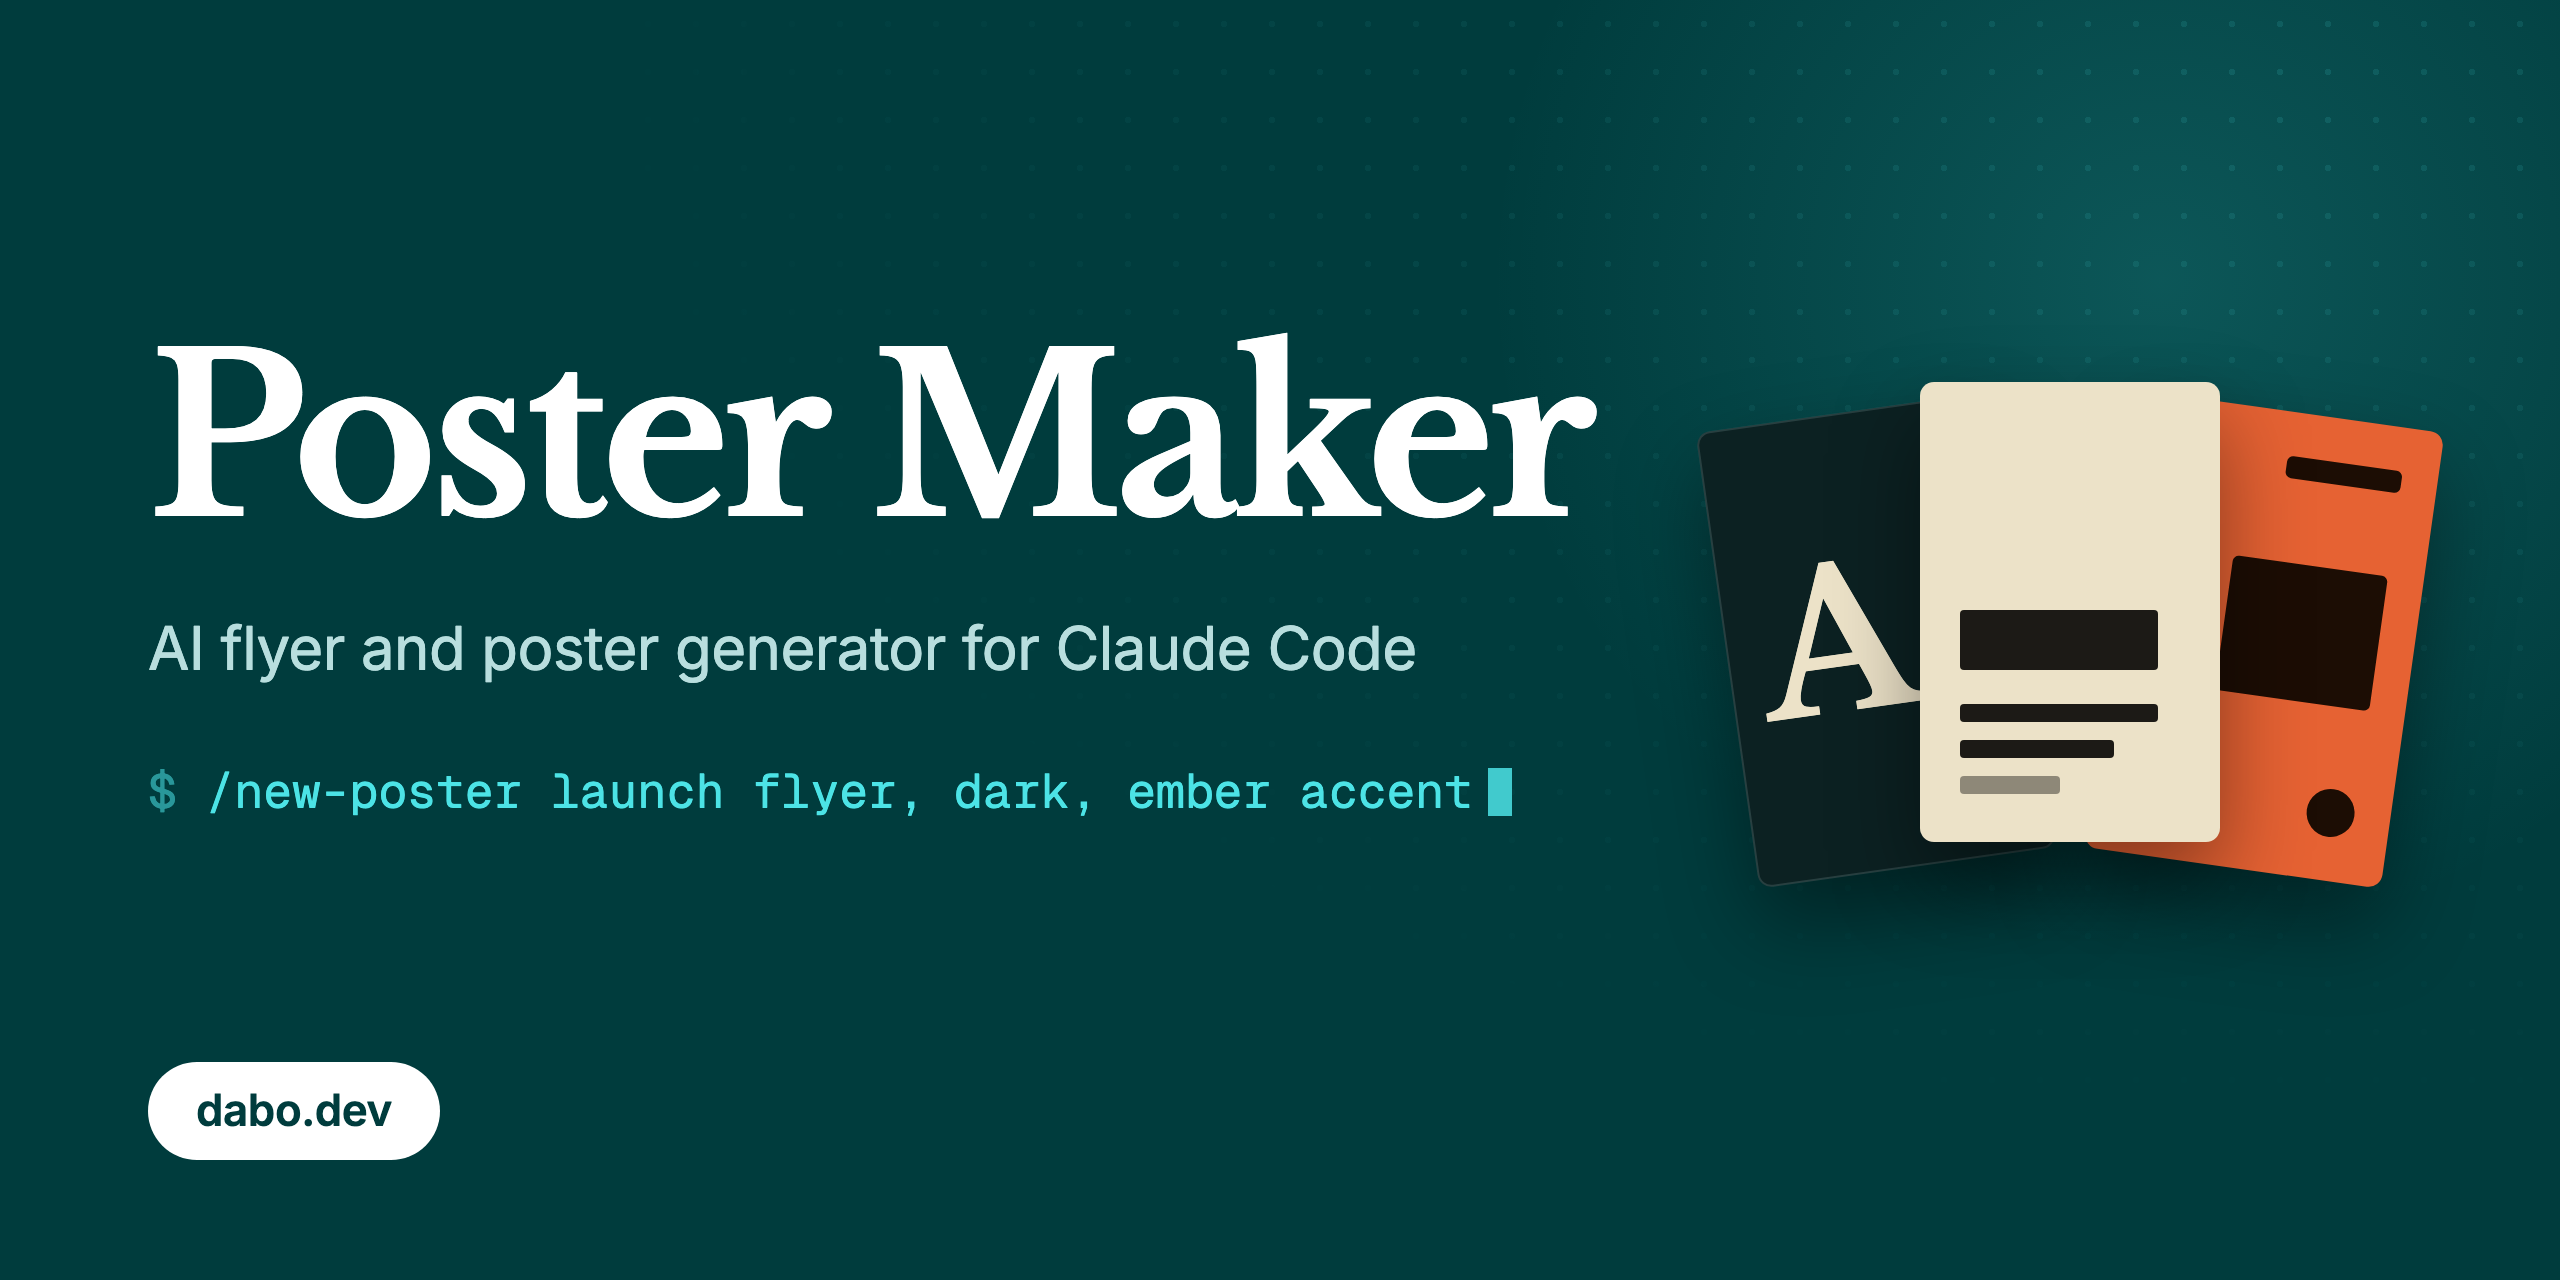
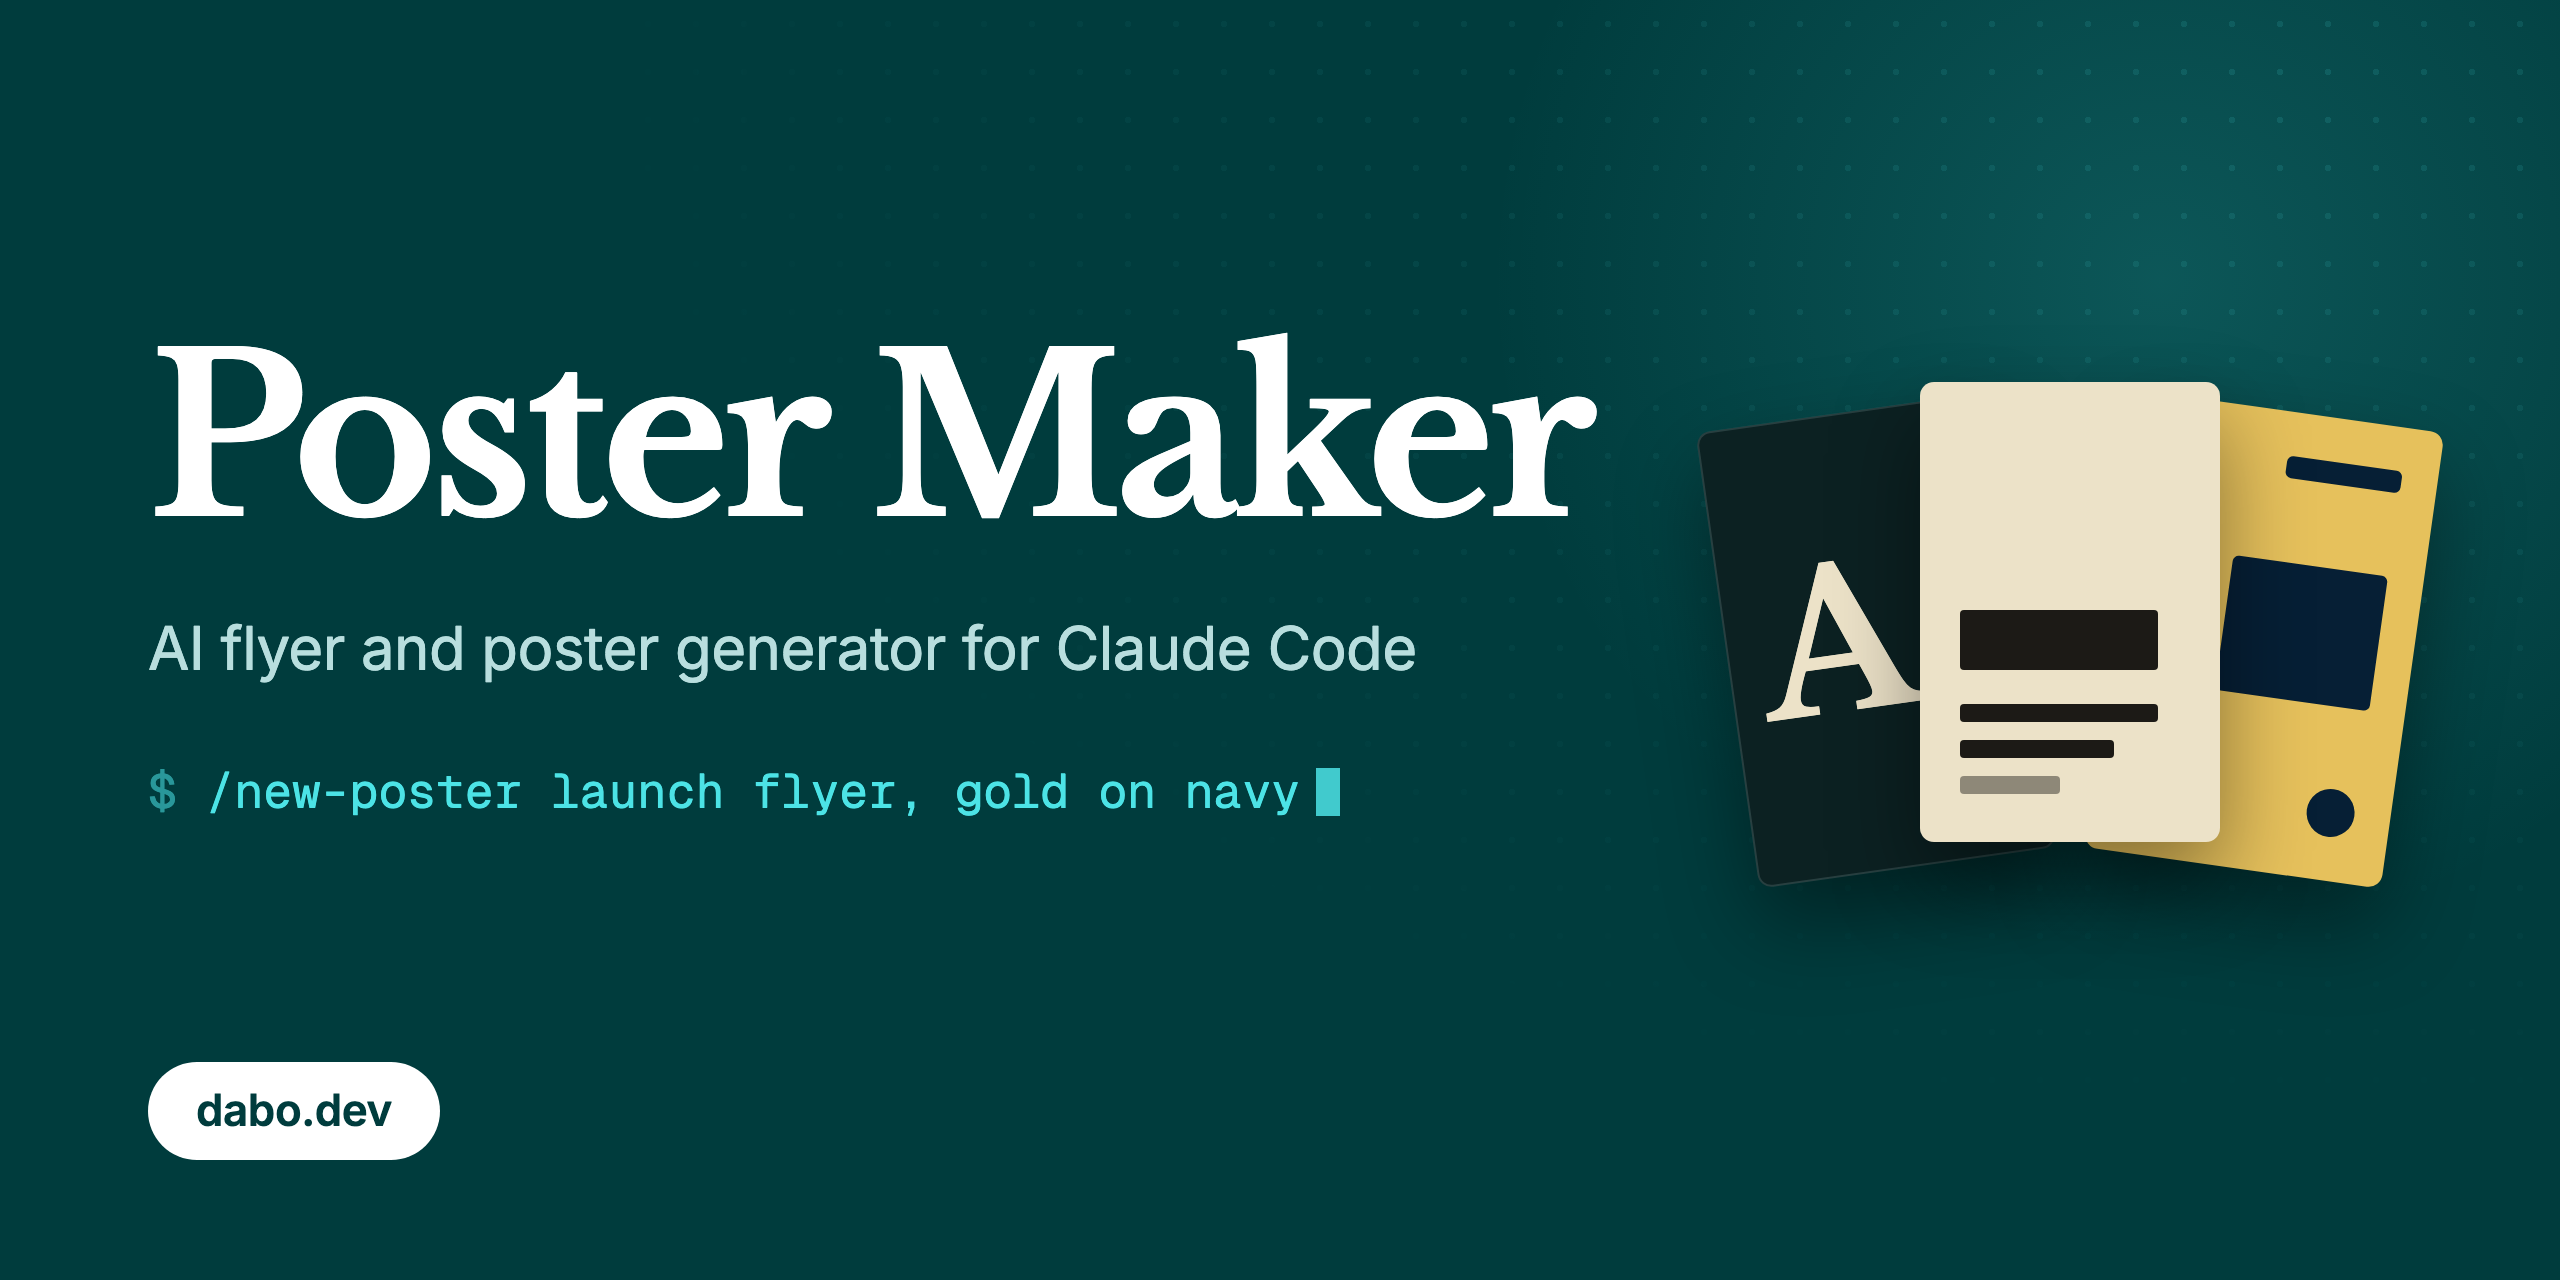
update: social preview card and command in the new releaserocket gold

Changed region(s): [[0.8125, 0.3125, 0.9688, 0.6875], [0.375, 0.5938, 0.5938, 0.6562]]

diff --git a/posters/github-social-preview.html b/posters/github-social-preview.html
@@ -184,11 +184,11 @@
 
   /* Only the right band of this card clears the paper card, so its shapes
      are right-anchored to stay readable in the fan. */
-  .thumb-ember {
+  .thumb-gold {
     left: 194px;
     z-index: 2;
     transform: rotate(8deg);
-    background: #E66233;
+    background: #E6C15C;
     padding: 22px 18px;
     display: flex;
     flex-direction: column;
@@ -196,14 +196,14 @@
     justify-content: space-between;
   }
 
-  .thumb-ember .block {
-    background: #1C0D04;
+  .thumb-gold .block {
+    background: #061F35;
     border-radius: 3px;
   }
 
-  .thumb-ember .block.bar { height: 11px; width: 58px; }
-  .thumb-ember .block.slab { height: 68px; width: 78px; }
-  .thumb-ember .block.dot { height: 24px; width: 24px; border-radius: 50%; }
+  .thumb-gold .block.bar { height: 11px; width: 58px; }
+  .thumb-gold .block.slab { height: 68px; width: 78px; }
+  .thumb-gold .block.dot { height: 24px; width: 24px; border-radius: 50%; }
 
   /* Fit-to-window preview */
   @media screen {
@@ -223,14 +223,14 @@
   <div class="left">
     <h1 class="headline">Poster Maker</h1>
     <p class="tagline">AI flyer and poster generator for Claude Code</p>
-    <div class="command"><span class="prompt">$</span> /new-poster launch flyer, dark, ember accent<span class="cursor"></span></div>
+    <div class="command"><span class="prompt">$</span> /new-poster launch flyer, gold on navy<span class="cursor"></span></div>
     <div class="badge">dabo.dev</div>
   </div>
 
   <div class="right">
     <div class="fan">
       <div class="thumb thumb-dark"><span class="glyph">A</span></div>
-      <div class="thumb thumb-ember">
+      <div class="thumb thumb-gold">
         <div class="block bar"></div>
         <div class="block slab"></div>
         <div class="block dot"></div>
